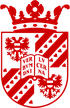
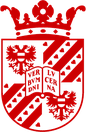
Footer: the University of Groningen shield as tall as the two lines of text beside it

diff --git a/site/src/styles/page.css b/site/src/styles/page.css
@@ -57,7 +57,8 @@ footer p { margin: 0 0 0.3rem; max-width: 90ch; }
 .credit:hover { text-decoration: underline; }
 .credit img { width: 1.25rem; height: 1.25rem; }
 .credits { display: flex; flex-wrap: wrap; gap: 0.8rem 1.6rem; align-items: center; }
-.rug img { display: block; width: auto; height: 2.25rem; }
+/* as tall as the two lines of text on the left: two lines of 1.2rem and the 0.3rem between them */
+.rug img { display: block; width: auto; height: 2.7rem; }
 /* In dark mode the logos sit on a light ground so their red stays readable. */
 @media (prefers-color-scheme: dark) {
   .credit img { background: #fff; padding: 0.15rem; border-radius: 50%; }

diff --git a/site/index.html b/site/index.html
@@ -313,7 +313,7 @@
       </div>
       <div class="credits">
         <a class="credit" href="https://rug.nl/geo"><img src="img/geodienst.svg" alt="" width="20" height="20"><span>Geodienst, University of Groningen</span></a>
-        <a class="rug" href="https://www.rug.nl/"><img src="img/rug-shield.png" alt="University of Groningen" width="23" height="36"></a>
+        <a class="rug" href="https://www.rug.nl/"><img src="img/rug-shield.png" alt="University of Groningen" width="26" height="41"></a>
       </div>
     </div>
   </footer>
